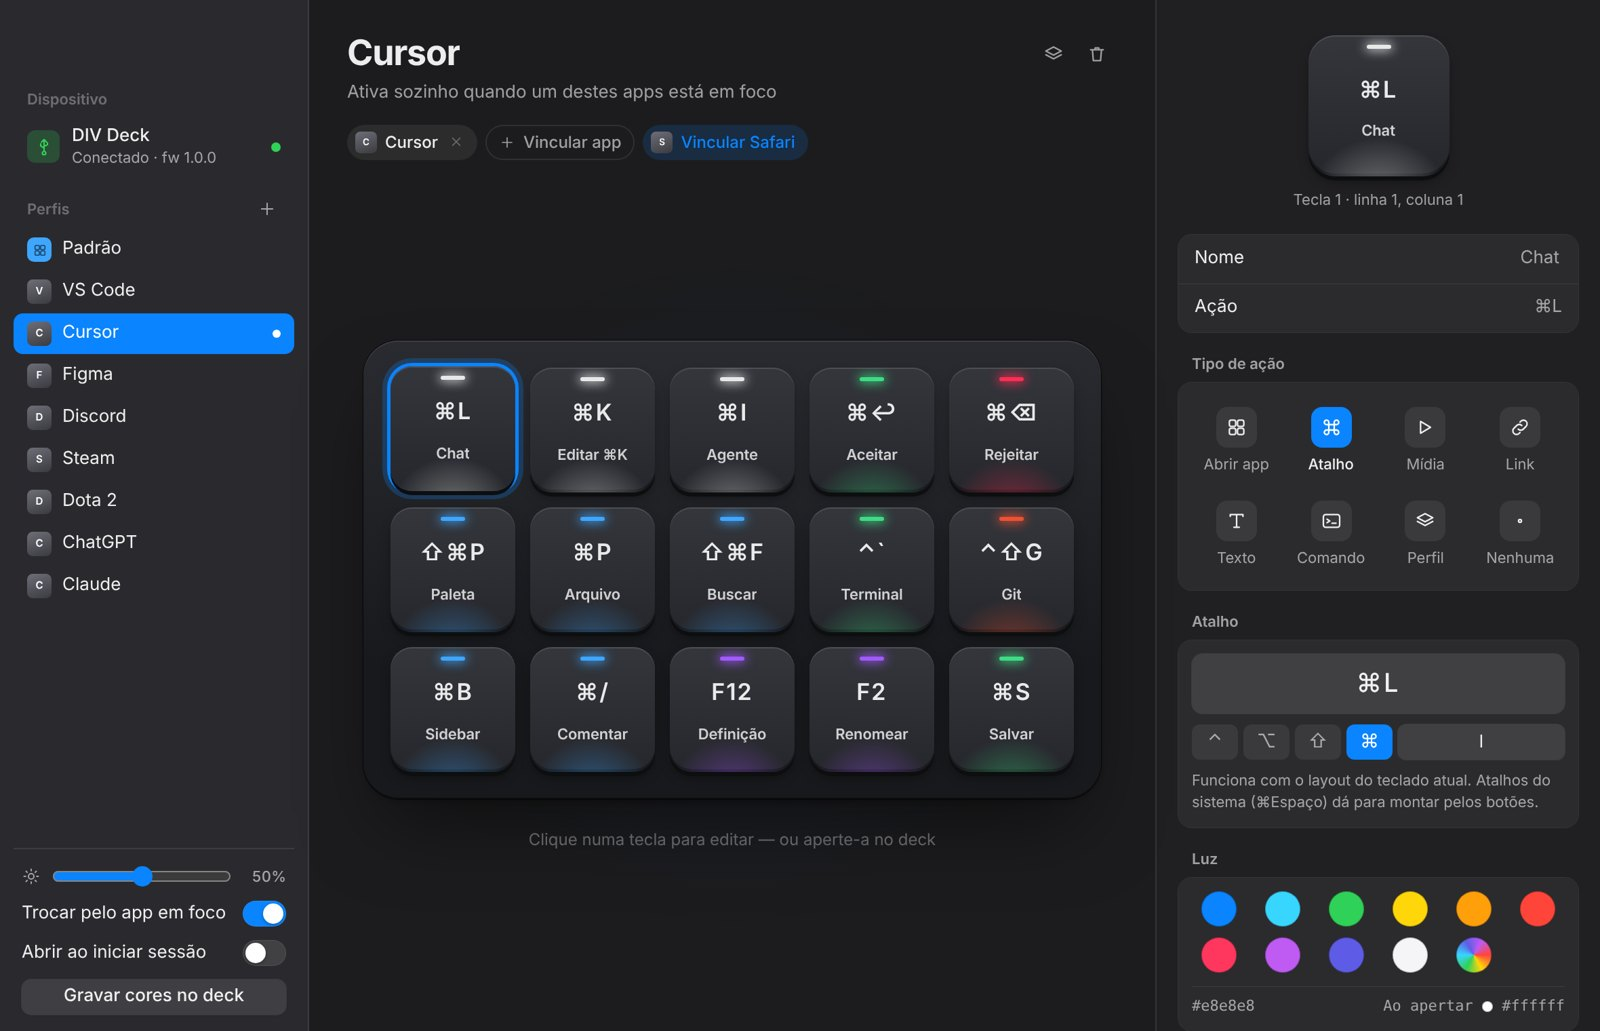
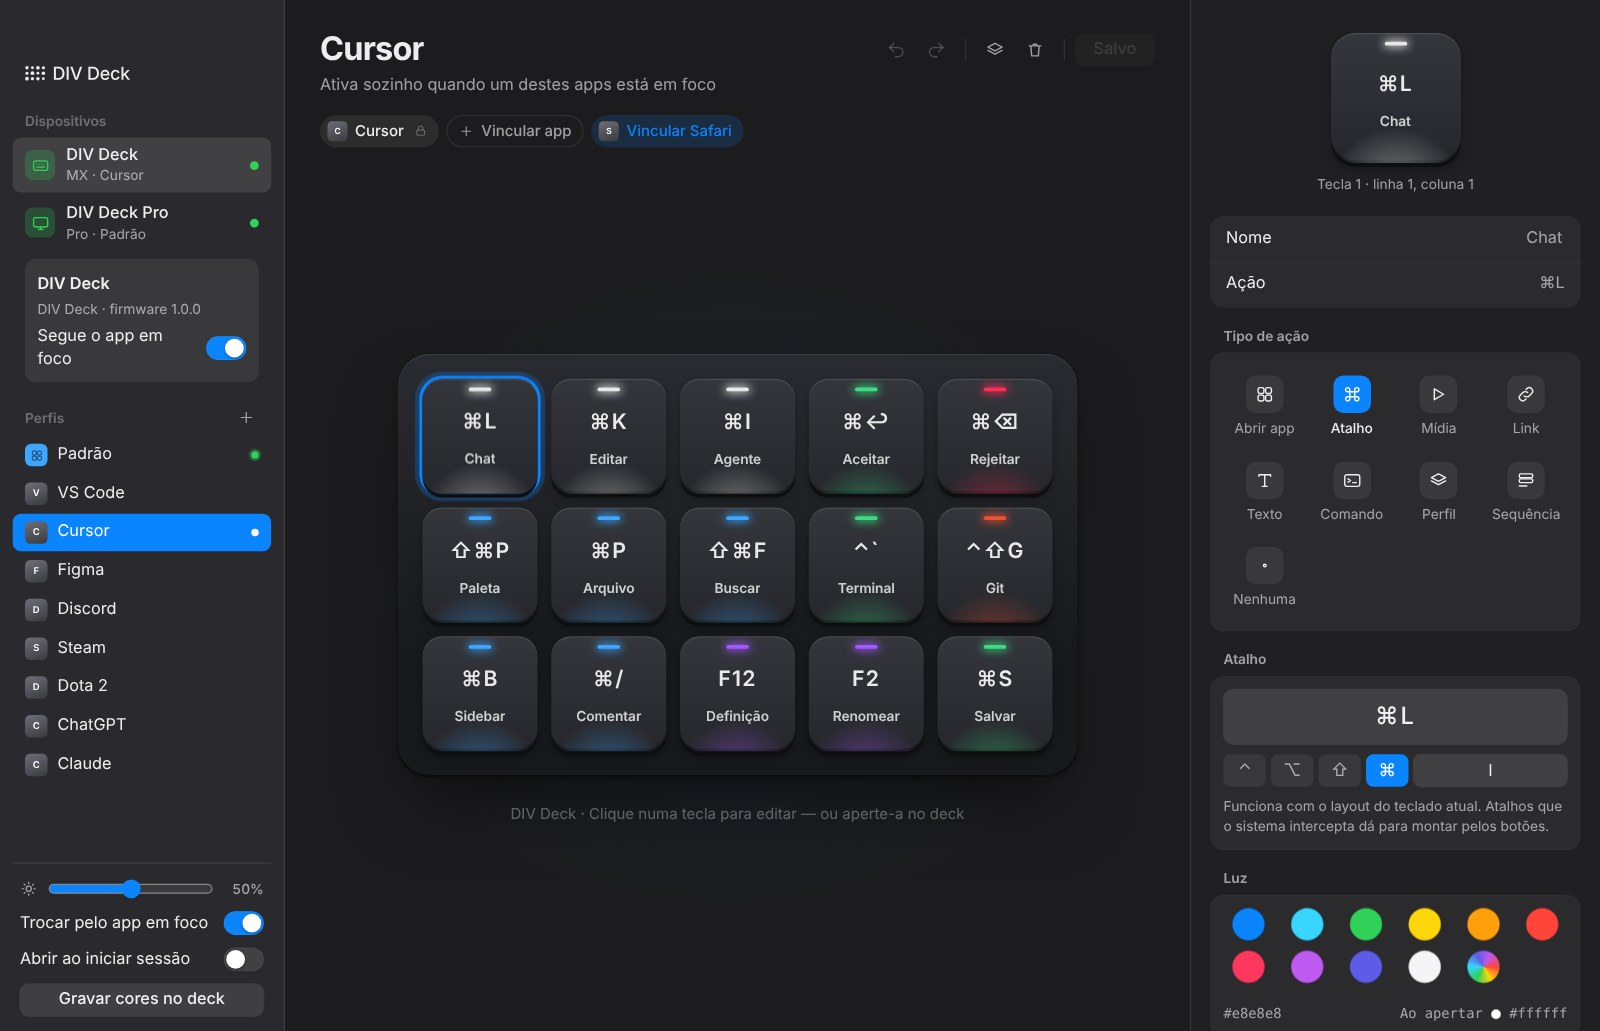
Site: new app screenshots (two decks, Pro with a sequence), features for sequences, several decks and auto-update
Claude-Session: https://claude.ai/code/session_01M63M5RZUu8xuQkFFeAvjuJ

diff --git a/docs/index.html b/docs/index.html
@@ -305,16 +305,20 @@ footer a { color: var(--text-2); }
 
 <section class="alt" id="recursos"><div class="wrap">
   <h2 class="big reveal">Pequeno. Esperto.<br>Feito para o seu fluxo.</h2>
-  <p class="sub reveal">Um app leve que mora na barra de menus e transforma cada tecla no que você precisar.</p>
+  <p class="sub reveal">Um app leve que mora na barra de menus e transforma cada tecla no que você precisar — no DIV Deck e no DIV Deck Pro.</p>
   <div class="features stagger">
     <div class="f spot"><div class="ico"><svg width="22" height="22" viewBox="0 0 24 24" fill="none" stroke="currentColor" stroke-width="1.8" stroke-linecap="round" stroke-linejoin="round"><path d="M12 4l8.5 4.5L12 13 3.5 8.5z"/><path d="M3.5 12.5L12 17l8.5-4.5"/></svg></div><b>Perfis automáticos</b><p>Abriu o Figma? As teclas passam a fazer atalhos do Figma. Voltou ao código? Viram atalhos do VS Code. Sem trocar nada à mão.</p></div>
     <div class="f spot"><div class="ico"><svg width="22" height="22" viewBox="0 0 24 24" fill="none" stroke="currentColor" stroke-width="1.8" stroke-linecap="round" stroke-linejoin="round"><path d="M9 9V6.5A2.5 2.5 0 1 0 6.5 9H9zm0 0h6m-6 0v6m6-6V6.5A2.5 2.5 0 1 1 17.5 9H15zm0 0v6m0 0h-6m6 0v2.5a2.5 2.5 0 1 0 2.5-2.5H15zm-6 0v2.5A2.5 2.5 0 1 1 6.5 15H9z"/></svg></div><b>Qualquer atalho</b><p>Grave apertando as teclas. Combine com abrir apps, links, comandos de terminal e textos prontos.</p></div>
     <div class="f spot"><div class="ico"><svg width="22" height="22" viewBox="0 0 24 24" fill="none" stroke="currentColor" stroke-width="1.8" stroke-linecap="round"><circle cx="12" cy="12" r="3.5"/><path d="M12 3v2M12 19v2M3 12h2M19 12h2M5.6 5.6L7 7M17 17l1.4 1.4M5.6 18.4L7 17M17 7l1.4-1.4"/></svg></div><b>Uma cor por tecla</b><p>LED RGB em cada tecla, com prévia ao vivo. As cores ficam salvas no deck mesmo sem o app.</p></div>
     <div class="f spot"><div class="ico" data-icon="play" data-size="20"></div><b>Mídia e volume</b><p>Play, pausa, próxima, volume e mudo em qualquer app — como as teclas do seu teclado.</p></div>
     <div class="f spot"><div class="ico"><svg width="22" height="22" viewBox="0 0 24 24" fill="none" stroke="currentColor" stroke-width="1.8" stroke-linecap="round" stroke-linejoin="round"><path d="M5 7V5h14v2M12 5v14M9 19h6"/></svg></div><b>Prompts num toque</b><p>Perfis de ChatGPT e Claude com prompts prontos: explicar, revisar, testes, commit, resumo.</p></div>
+    <div class="f spot"><div class="ico"><svg width="22" height="22" viewBox="0 0 24 24" fill="none" stroke="currentColor" stroke-width="1.8" stroke-linecap="round" stroke-linejoin="round"><rect x="4" y="4" width="16" height="4.5" rx="1.5"/><rect x="4" y="10" width="16" height="4.5" rx="1.5"/><path d="M4 18.5h9"/></svg></div><b>Sequências numa tecla</b><p>Encadeie atalhos, textos, pausas e apps: abrir o Slack, ir ao canal, escrever a mensagem e enviar — tudo num toque.</p></div>
+    <div class="f spot"><div class="ico"><svg width="22" height="22" viewBox="0 0 24 24" fill="none" stroke="currentColor" stroke-width="1.8" stroke-linecap="round" stroke-linejoin="round"><rect x="3" y="6" width="9" height="12" rx="2"/><rect x="14" y="8" width="7" height="8" rx="1.5"/></svg></div><b>Vários decks</b><p>DIV Deck e DIV Deck Pro ligados ao mesmo tempo, cada um com nome e perfil próprios — e escolha quais seguem o app em foco.</p></div>
+    <div class="f spot"><div class="ico"><svg width="22" height="22" viewBox="0 0 24 24" fill="none" stroke="currentColor" stroke-width="1.8" stroke-linecap="round" stroke-linejoin="round"><path d="M20 12a8 8 0 1 1-2.3-5.6"/><path d="M20 4v4h-4"/></svg></div><b>Atualiza sozinho</b><p>Quando sai uma versão nova, o app avisa e instala com um clique. As suas teclas e perfis ficam onde estão.</p></div>
     <div class="f spot"><div class="ico"><svg width="22" height="22" viewBox="0 0 24 24" fill="none" stroke="currentColor" stroke-width="1.8" stroke-linecap="round" stroke-linejoin="round"><rect x="3" y="5" width="18" height="14" rx="2.5"/><path d="M7 10l3 2-3 2M12.5 14.5H17"/></svg></div><b>Comandos e links</b><p>Rode um script, abra um projeto, entre numa call. Links de app também: <code>steam://</code>, <code>slack://</code>.</p></div>
   </div>
-  <div class="shot tilt reveal" data-tilt="4"><picture><source srcset="img/app-light.jpg" media="(prefers-color-scheme: light)"><img src="img/app-dark.jpg" alt="O app DIV Deck no Mac, editando o perfil do Cursor" loading="lazy"></picture></div>
+  <div class="shot tilt reveal v-mx" data-tilt="4"><picture><source srcset="img/app-light.jpg" media="(prefers-color-scheme: light)"><img src="img/app-dark.jpg" alt="O app DIV Deck no Mac, com dois decks ligados, editando o perfil do Cursor no DIV Deck" loading="lazy"></picture></div>
+  <div class="shot tilt reveal v-pro" data-tilt="4"><picture><source srcset="img/app-pro-light.jpg" media="(prefers-color-scheme: light)"><img src="img/app-pro-dark.jpg" alt="O app DIV Deck no Mac editando o DIV Deck Pro: uma tecla com uma sequência que abre o Slack e manda uma mensagem" loading="lazy"></picture></div>
 </div></section>
 
 <section class="center" id="perfis"><div class="wrap">
